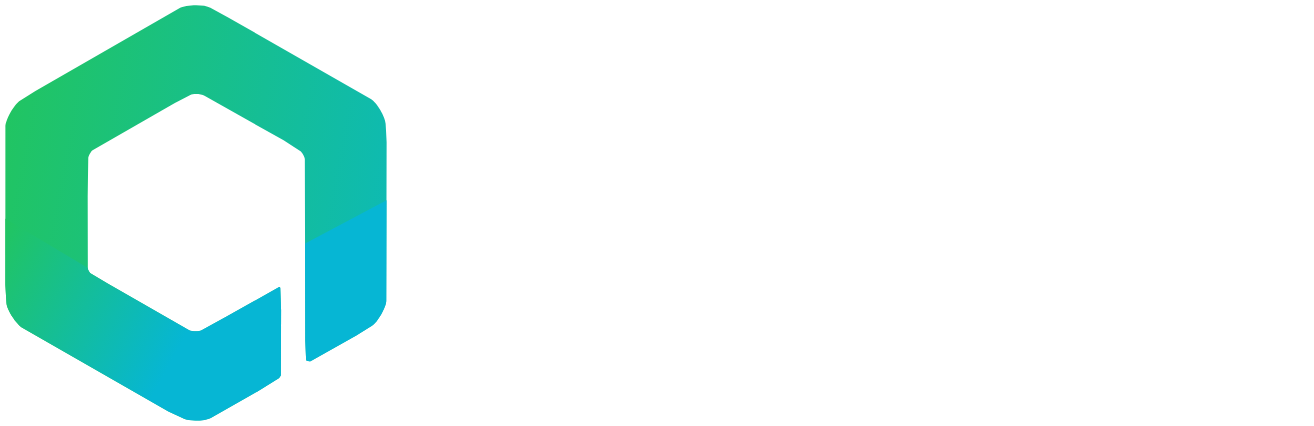
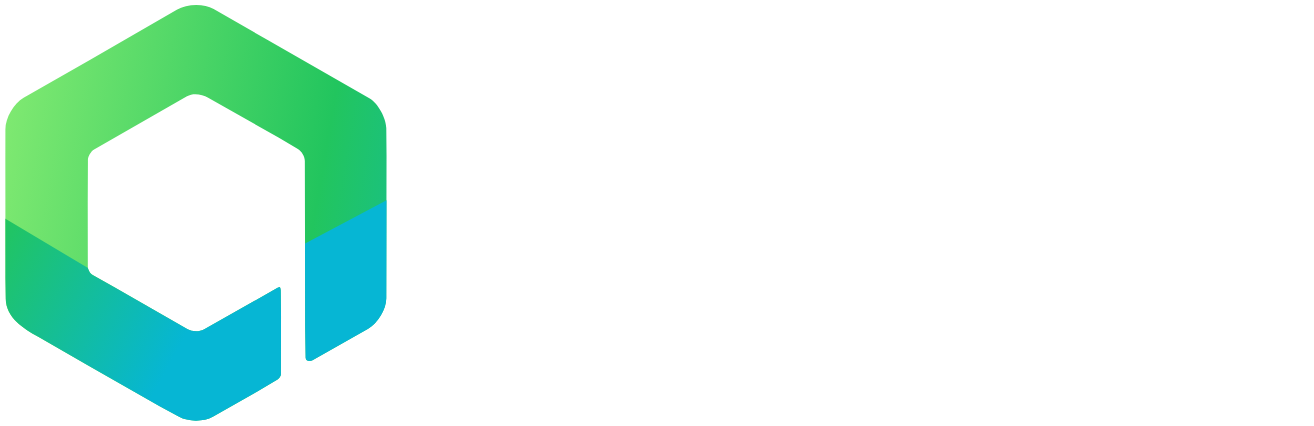
feat(ui): use the board gradient with a light lime highlight
Adds the measured light lime (#84EB72) as the first stop of the symbol gradient, regenerates the derived exports and records the owner approval of every asset in the manifest.

Changed region(s): [[0.0, 0.0, 0.312, 0.6103]]

diff --git a/brand/README.md b/brand/README.md
@@ -27,6 +27,11 @@ The product owner re-uploaded these two original boards during the brand review 
 - Midnight navy: **#0F172A**
 - Slate: **#64748B**
 
+### Brand gradient highlight (sixth color)
+- Light lime: **#84EB72**, measured on the primary board at the top-left of the symbol, where the artwork is lighter than the labelled palette.
+
+The product owner decided on 2026-10-14 that the vector symbol reproduces the board's gradient. Light lime is therefore used **only** as the first stop of the symbol gradient (`brand/logo/orcon-symbol.svg`, the app icon, the lockups and the favicons derived from them). It is not a UI color, has no design token, and never appears behind or as text.
+
 This palette takes precedence over earlier speculative palettes. The approved board also uses white/light neutral surfaces. The second board has a different exploratory palette; prefer the primary board as the color reference until a final token review.
 
 ## Approved visual characteristics
